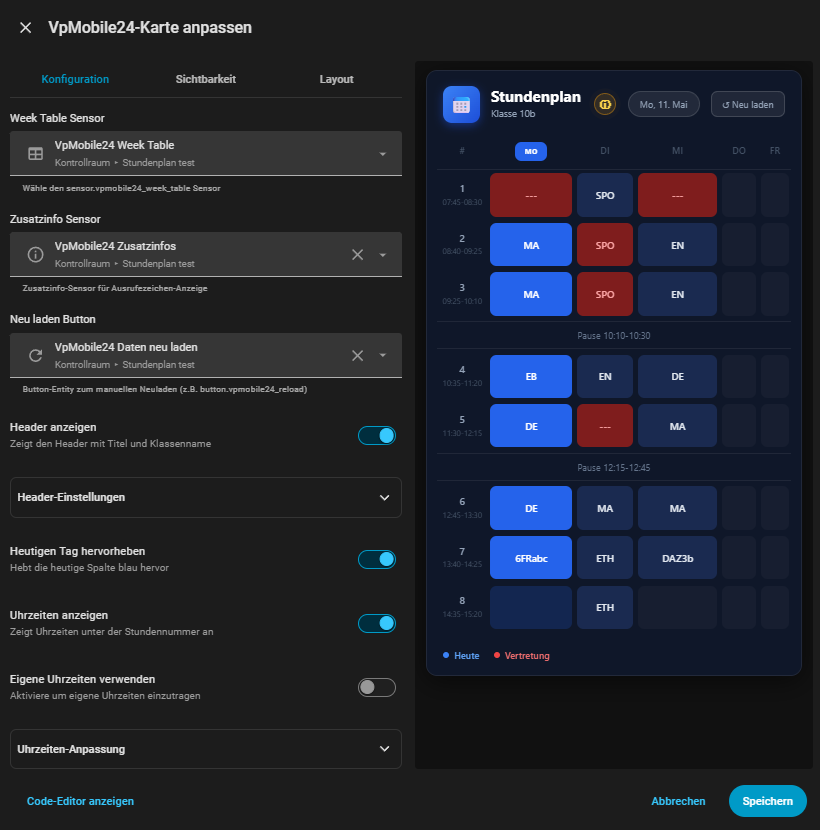
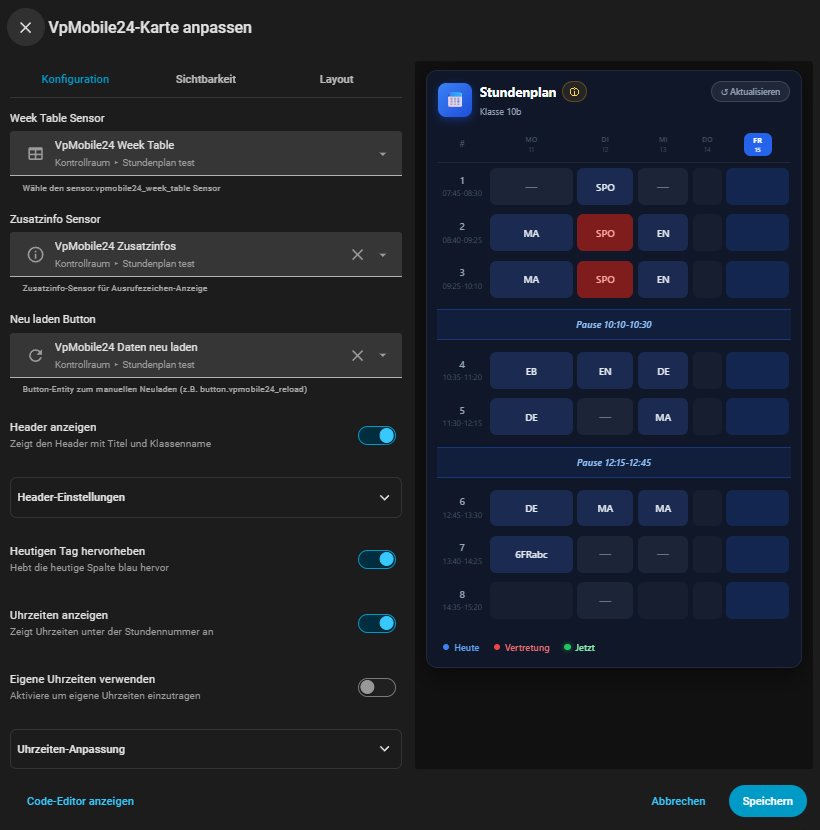
bilder update

Changed region(s): [[0.5183, 0.0904, 0.9756, 0.8133]]

diff --git a/website/index.html b/website/index.html
@@ -347,68 +347,104 @@
         <!-- Feature Showcase SVGs -->
         <div class="feature-showcase">
 
-          <!-- 1: Detail Popup -->
+          <!-- 1: Desktop Card – exact style from screenshot -->
           <div class="showcase-item">
-            <div class="showcase-label"><span class="showcase-dot dot-blue"></span>Klick → Detail-Popup</div>
+            <div class="showcase-label"><span class="showcase-dot dot-blue"></span>Desktop – Wochenansicht</div>
             <div class="showcase-mockup">
-              <svg viewBox="0 0 300 190" xmlns="http://www.w3.org/2000/svg" class="showcase-svg">
-                <rect width="300" height="190" rx="10" fill="#0f1729"/>
-                <rect x="8" y="8" width="284" height="70" rx="6" fill="#162040" opacity="0.6"/>
-                <!-- tiles -->
-                <rect x="60" y="18" width="52" height="22" rx="5" fill="#2563eb" opacity="0.4"/>
-                <text x="86" y="33" text-anchor="middle" fill="#93c5fd" font-size="8" font-family="Inter,sans-serif">MA</text>
-                <rect x="120" y="18" width="52" height="22" rx="5" fill="#2563eb"/>
-                <text x="146" y="33" text-anchor="middle" fill="#fff" font-size="8" font-weight="600" font-family="Inter,sans-serif">DE</text>
-                <rect x="180" y="18" width="52" height="22" rx="5" fill="#1a2a50"/>
-                <text x="206" y="33" text-anchor="middle" fill="#e2e8f0" font-size="8" font-family="Inter,sans-serif">EN</text>
-                <!-- Popup -->
-                <rect x="40" y="82" width="220" height="100" rx="10" fill="#162040" stroke="rgba(255,255,255,0.12)" stroke-width="1"/>
-                <rect x="40" y="82" width="220" height="30" rx="10" fill="#162040"/>
-                <rect x="40" y="100" width="220" height="12" fill="#162040"/>
-                <text x="54" y="98" fill="#94a3b8" font-size="7" font-family="Inter,sans-serif">2. Stunde</text>
-                <text x="100" y="98" fill="#fff" font-size="10" font-weight="800" font-family="Inter,sans-serif">Deutsch</text>
-                <line x1="40" y1="112" x2="260" y2="112" stroke="rgba(255,255,255,0.07)" stroke-width="1"/>
-                <text x="54" y="126" fill="#64748b" font-size="6.5" font-weight="600" font-family="Inter,sans-serif">🕐 2. Stunde</text>
-                <text x="120" y="126" fill="#e2e8f0" font-size="8" font-family="Inter,sans-serif">08:40–09:25</text>
-                <text x="54" y="142" fill="#64748b" font-size="6.5" font-weight="600" font-family="Inter,sans-serif">👤 Lehrer</text>
-                <text x="120" y="142" fill="#e2e8f0" font-size="8" font-family="Inter,sans-serif">Müller</text>
-                <text x="54" y="158" fill="#64748b" font-size="6.5" font-weight="600" font-family="Inter,sans-serif">🚪 Raum</text>
-                <text x="120" y="158" fill="#e2e8f0" font-size="8" font-family="Inter,sans-serif">B102</text>
-                <rect x="186" y="168" width="66" height="16" rx="6" fill="#2563eb"/>
-                <text x="219" y="179" text-anchor="middle" fill="#fff" font-size="7.5" font-weight="700" font-family="Inter,sans-serif">Schließen</text>
+              <svg viewBox="0 0 420 340" xmlns="http://www.w3.org/2000/svg" class="showcase-svg">
+                <rect width="420" height="340" rx="12" fill="#0f1729" stroke="rgba(255,255,255,0.08)" stroke-width="1"/>
+                <!-- Header -->
+                <rect x="14" y="14" width="34" height="34" rx="8" fill="url(#sg1)"/>
+                <text x="31" y="35" text-anchor="middle" font-size="14" font-family="sans-serif">��</text>
+                <text x="56" y="28" fill="#fff" font-size="11" font-weight="700" font-family="Inter,sans-serif">Stundenplan</text>
+                <text x="56" y="40" fill="#94a3b8" font-size="8" font-family="Inter,sans-serif">Klasse 10b</text>
+                <!-- ⓘ -->
+                <circle cx="168" cy="31" r="9" fill="rgba(245,158,11,0.15)" stroke="rgba(245,158,11,0.4)" stroke-width="1.2"/>
+                <text x="168" y="35" text-anchor="middle" fill="#fcd34d" font-size="9" font-family="sans-serif">ⓘ</text>
+                <!-- Aktualisieren -->
+                <rect x="310" y="20" width="96" height="22" rx="11" fill="rgba(255,255,255,0.07)" stroke="rgba(255,255,255,0.13)" stroke-width="1"/>
+                <text x="358" y="34" text-anchor="middle" fill="#94a3b8" font-size="8" font-family="Inter,sans-serif">↺ Aktualisieren</text>
+                <!-- Column headers with date -->
+                <rect x="0" y="56" width="420" height="22" fill="rgba(0,0,0,0.2)"/>
+                <text x="36" y="70" fill="#475569" font-size="7" font-weight="600" font-family="Inter,sans-serif">#</text>
+                <text x="90" y="67" text-anchor="middle" fill="#475569" font-size="7" font-weight="600" font-family="Inter,sans-serif">MO</text>
+                <text x="90" y="76" text-anchor="middle" fill="#334155" font-size="6.5" font-family="Inter,sans-serif">11</text>
+                <text x="162" y="67" text-anchor="middle" fill="#475569" font-size="7" font-weight="600" font-family="Inter,sans-serif">DI</text>
+                <text x="162" y="76" text-anchor="middle" fill="#334155" font-size="6.5" font-family="Inter,sans-serif">12</text>
+                <text x="234" y="67" text-anchor="middle" fill="#475569" font-size="7" font-weight="600" font-family="Inter,sans-serif">MI</text>
+                <text x="234" y="76" text-anchor="middle" fill="#334155" font-size="6.5" font-family="Inter,sans-serif">13</text>
+                <text x="306" y="67" text-anchor="middle" fill="#475569" font-size="7" font-weight="600" font-family="Inter,sans-serif">DO</text>
+                <text x="306" y="76" text-anchor="middle" fill="#334155" font-size="6.5" font-family="Inter,sans-serif">14</text>
+                <!-- FR today pill -->
+                <rect x="356" y="58" width="50" height="20" rx="6" fill="#2563eb"/>
+                <text x="381" y="67" text-anchor="middle" fill="#fff" font-size="7" font-weight="700" font-family="Inter,sans-serif">FR</text>
+                <text x="381" y="76" text-anchor="middle" fill="rgba(255,255,255,0.85)" font-size="6.5" font-family="Inter,sans-serif">15</text>
+                <!-- Row 1: ausfall MO, SPO DI, ausfall MI -->
+                <rect x="0" y="78" width="420" height="30" fill="#0f1729"/>
+                <text x="36" y="95" text-anchor="middle" fill="#94a3b8" font-size="7" font-family="Inter,sans-serif">1</text>
+                <text x="36" y="103" text-anchor="middle" fill="#475569" font-size="5.5" font-family="Inter,sans-serif">07:45</text>
+                <rect x="58" y="81" width="62" height="24" rx="6" fill="#1a2a50"/>
+                <text x="89" y="97" text-anchor="middle" fill="#64748b" font-size="10" font-family="Inter,sans-serif">—</text>
+                <rect x="130" y="81" width="62" height="24" rx="6" fill="#1a2a50"/>
+                <text x="161" y="97" text-anchor="middle" fill="#e2e8f0" font-size="8" font-family="Inter,sans-serif">SPO</text>
+                <rect x="202" y="81" width="62" height="24" rx="6" fill="#1a2a50"/>
+                <text x="233" y="97" text-anchor="middle" fill="#64748b" font-size="10" font-family="Inter,sans-serif">—</text>
+                <rect x="274" y="81" width="62" height="24" rx="6" fill="rgba(255,255,255,0.03)"/>
+                <rect x="346" y="81" width="62" height="24" rx="6" fill="rgba(37,99,235,0.15)"/>
+                <!-- Row 2: MA, SPO red, EN -->
+                <rect x="0" y="108" width="420" height="30" fill="rgba(255,255,255,0.01)"/>
+                <text x="36" y="125" text-anchor="middle" fill="#94a3b8" font-size="7" font-family="Inter,sans-serif">2</text>
+                <text x="36" y="133" text-anchor="middle" fill="#475569" font-size="5.5" font-family="Inter,sans-serif">08:40</text>
+                <rect x="58" y="111" width="62" height="24" rx="6" fill="#1a2a50"/>
+                <text x="89" y="127" text-anchor="middle" fill="#e2e8f0" font-size="8" font-family="Inter,sans-serif">MA</text>
+                <rect x="130" y="111" width="62" height="24" rx="6" fill="#7f1d1d"/>
+                <text x="161" y="127" text-anchor="middle" fill="#fca5a5" font-size="8" font-weight="600" font-family="Inter,sans-serif">SPO</text>
+                <rect x="202" y="111" width="62" height="24" rx="6" fill="#1a2a50"/>
+                <text x="233" y="127" text-anchor="middle" fill="#e2e8f0" font-size="8" font-family="Inter,sans-serif">EN</text>
+                <rect x="274" y="111" width="62" height="24" rx="6" fill="rgba(255,255,255,0.03)"/>
+                <rect x="346" y="111" width="62" height="24" rx="6" fill="rgba(37,99,235,0.15)"/>
+                <!-- Row 3 -->
+                <rect x="0" y="138" width="420" height="30" fill="#0f1729"/>
+                <text x="36" y="155" text-anchor="middle" fill="#94a3b8" font-size="7" font-family="Inter,sans-serif">3</text>
+                <text x="36" y="163" text-anchor="middle" fill="#475569" font-size="5.5" font-family="Inter,sans-serif">09:25</text>
+                <rect x="58" y="141" width="62" height="24" rx="6" fill="#1a2a50"/>
+                <text x="89" y="157" text-anchor="middle" fill="#e2e8f0" font-size="8" font-family="Inter,sans-serif">MA</text>
+                <rect x="130" y="141" width="62" height="24" rx="6" fill="#7f1d1d"/>
+                <text x="161" y="157" text-anchor="middle" fill="#fca5a5" font-size="8" font-weight="600" font-family="Inter,sans-serif">SPO</text>
+                <rect x="202" y="141" width="62" height="24" rx="6" fill="#1a2a50"/>
+                <text x="233" y="157" text-anchor="middle" fill="#e2e8f0" font-size="8" font-family="Inter,sans-serif">EN</text>
+                <rect x="274" y="141" width="62" height="24" rx="6" fill="rgba(255,255,255,0.03)"/>
+                <rect x="346" y="141" width="62" height="24" rx="6" fill="rgba(37,99,235,0.15)"/>
+                <!-- Pause blue -->
+                <rect x="0" y="168" width="420" height="20" fill="rgba(37,99,235,0.1)"/>
+                <line x1="0" y1="168" x2="420" y2="168" stroke="rgba(37,99,235,0.4)" stroke-width="2"/>
+                <line x1="0" y1="188" x2="420" y2="188" stroke="rgba(37,99,235,0.4)" stroke-width="2"/>
+                <text x="210" y="181" text-anchor="middle" fill="#93c5fd" font-size="7.5" font-style="italic" font-weight="500" font-family="Inter,sans-serif">Pause 10:10-10:30</text>
+                <!-- Row 4 -->
+                <rect x="0" y="188" width="420" height="30" fill="rgba(255,255,255,0.01)"/>
+                <text x="36" y="205" text-anchor="middle" fill="#94a3b8" font-size="7" font-family="Inter,sans-serif">4</text>
+                <text x="36" y="213" text-anchor="middle" fill="#475569" font-size="5.5" font-family="Inter,sans-serif">10:35</text>
+                <rect x="58" y="191" width="62" height="24" rx="6" fill="#1a2a50"/>
+                <text x="89" y="207" text-anchor="middle" fill="#e2e8f0" font-size="8" font-family="Inter,sans-serif">EB</text>
+                <rect x="130" y="191" width="62" height="24" rx="6" fill="#1a2a50"/>
+                <text x="161" y="207" text-anchor="middle" fill="#e2e8f0" font-size="8" font-family="Inter,sans-serif">EN</text>
+                <rect x="202" y="191" width="62" height="24" rx="6" fill="#1a2a50"/>
+                <text x="233" y="207" text-anchor="middle" fill="#e2e8f0" font-size="8" font-family="Inter,sans-serif">DE</text>
+                <rect x="274" y="191" width="62" height="24" rx="6" fill="rgba(255,255,255,0.03)"/>
+                <rect x="346" y="191" width="62" height="24" rx="6" fill="rgba(37,99,235,0.15)"/>
+                <!-- Legend -->
+                <circle cx="14" cy="310" r="4" fill="#3b82f6"/>
+                <text x="22" y="314" fill="#60a5fa" font-size="8" font-weight="600" font-family="Inter,sans-serif">Heute</text>
+                <circle cx="62" cy="310" r="4" fill="#ef4444"/>
+                <text x="70" y="314" fill="#f87171" font-size="8" font-weight="600" font-family="Inter,sans-serif">Vertretung</text>
+                <circle cx="122" cy="310" r="4" fill="#22c55e"/>
+                <text x="130" y="314" fill="#86efac" font-size="8" font-weight="600" font-family="Inter,sans-serif">Jetzt</text>
+                <defs><linearGradient id="sg1" x1="0" y1="0" x2="1" y2="1"><stop offset="0%" stop-color="#3b82f6"/><stop offset="100%" stop-color="#1d4ed8"/></linearGradient></defs>
               </svg>
             </div>
           </div>
 
-          <!-- 2: Ausfall Popup -->
-          <div class="showcase-item">
-            <div class="showcase-label"><span class="showcase-dot" style="background:#ef4444;box-shadow:0 0 8px rgba(239,68,68,.6)"></span>Ausfall → Rotes Glow-Popup</div>
-            <div class="showcase-mockup">
-              <svg viewBox="0 0 300 190" xmlns="http://www.w3.org/2000/svg" class="showcase-svg">
-                <rect width="300" height="190" rx="10" fill="#0f1729"/>
-                <rect width="300" height="190" rx="10" fill="rgba(0,0,0,0.45)"/>
-                <defs>
-                  <filter id="rg2"><feGaussianBlur stdDeviation="6" result="b"/><feMerge><feMergeNode in="b"/><feMergeNode in="SourceGraphic"/></feMerge></filter>
-                </defs>
-                <!-- Red popup -->
-                <rect x="20" y="15" width="260" height="160" rx="12" fill="#7f1d1d" stroke="rgba(239,68,68,0.5)" stroke-width="1.5" filter="url(#rg2)"/>
-                <!-- Title -->
-                <rect x="20" y="15" width="260" height="34" rx="12" fill="rgba(0,0,0,0.25)"/>
-                <rect x="20" y="37" width="260" height="12" fill="rgba(0,0,0,0.25)"/>
-                <text x="36" y="36" fill="#fca5a5" font-size="7.5" font-family="Inter,sans-serif">1. Stunde</text>
-                <text x="82" y="36" fill="#fca5a5" font-size="8" font-family="Inter,sans-serif">—</text>
-                <rect x="96" y="24" width="46" height="18" rx="5" fill="rgba(239,68,68,0.3)" stroke="rgba(239,68,68,0.5)" stroke-width="1"/>
-                <text x="119" y="36" text-anchor="middle" fill="#fca5a5" font-size="8" font-weight="700" font-family="Inter,sans-serif">Ausfall</text>
-                <!-- AUSFALL text -->
-                <text x="150" y="112" text-anchor="middle" fill="#fca5a5" font-size="26" font-weight="900" letter-spacing="3" font-family="Inter,sans-serif">AUSFALL</text>
-                <!-- Schließen -->
-                <rect x="196" y="152" width="66" height="18" rx="7" fill="#2563eb"/>
-                <text x="229" y="164" text-anchor="middle" fill="#fff" font-size="8" font-weight="700" font-family="Inter,sans-serif">Schließen</text>
-              </svg>
-            </div>
-          </div>
-
-          <!-- 3: Green current + blue pause -->
+          <!-- 2: Green current + blue pause -->
           <div class="showcase-item">
             <div class="showcase-label"><span class="showcase-dot" style="background:#22c55e;box-shadow:0 0 8px rgba(34,197,94,.6)"></span>Aktuelle Stunde grün + Pause hervorgehoben</div>
             <div class="showcase-mockup">
@@ -463,6 +499,120 @@
               </svg>
             </div>
           </div>
+
+          <!-- 3: Ausfall Popup -->
+          <div class="showcase-item">
+            <div class="showcase-label"><span class="showcase-dot" style="background:#ef4444;box-shadow:0 0 8px rgba(239,68,68,.6)"></span>Ausfall Popup</div>
+            <div class="showcase-mockup">
+              <svg viewBox="0 0 340 220" xmlns="http://www.w3.org/2000/svg" class="showcase-svg">
+                <rect width="340" height="220" rx="10" fill="#0f1729"/>
+                <rect width="340" height="220" rx="10" fill="rgba(0,0,0,0.5)"/>
+                <defs>
+                  <filter id="rglow"><feGaussianBlur stdDeviation="8" result="b"/><feMerge><feMergeNode in="b"/><feMergeNode in="SourceGraphic"/></feMerge></filter>
+                </defs>
+                <!-- Red popup – uniform color, no header bar -->
+                <rect x="20" y="20" width="300" height="180" rx="14" fill="#7f1d1d" stroke="rgba(239,68,68,0.55)" stroke-width="1.5" filter="url(#rglow)"/>
+                <!-- AUSFALL centered -->
+                <text x="170" y="118" text-anchor="middle" fill="#fca5a5" font-size="30" font-weight="900" letter-spacing="4" font-family="Inter,sans-serif">AUSFALL</text>
+                <!-- Schließen bottom right -->
+                <rect x="218" y="172" width="84" height="22" rx="8" fill="#2563eb"/>
+                <text x="260" y="186" text-anchor="middle" fill="#fff" font-size="9" font-weight="700" font-family="Inter,sans-serif">Schließen</text>
+              </svg>
+            </div>
+          </div>
+
+          <!-- 4: Mobile view – exact from screenshot -->
+          <div class="showcase-item">
+            <div class="showcase-label"><span class="showcase-dot dot-blue"></span>Handy-Modus</div>
+            <div class="showcase-mockup">
+              <svg viewBox="0 0 240 460" xmlns="http://www.w3.org/2000/svg" class="showcase-svg">
+                <!-- Phone frame -->
+                <rect width="240" height="460" rx="22" fill="#111"/>
+                <rect x="3" y="3" width="234" height="454" rx="20" fill="#0f1729" stroke="#1e293b" stroke-width="1"/>
+                <rect x="82" y="7" width="76" height="8" rx="4" fill="#111"/>
+                <!-- Header -->
+                <rect x="10" y="18" width="220" height="36" rx="8" fill="#162040" opacity="0.7"/>
+                <rect x="18" y="24" width="24" height="24" rx="6" fill="url(#sg2)"/>
+                <text x="30" y="39" text-anchor="middle" font-size="11" font-family="sans-serif">📅</text>
+                <text x="50" y="33" fill="#fff" font-size="9" font-weight="700" font-family="Inter,sans-serif">Stundenplan</text>
+                <text x="50" y="43" fill="#94a3b8" font-size="6.5" font-family="Inter,sans-serif">Klasse 10b</text>
+                <circle cx="148" cy="36" r="8" fill="rgba(245,158,11,0.15)" stroke="rgba(245,158,11,0.4)" stroke-width="1"/>
+                <text x="148" y="40" text-anchor="middle" fill="#fcd34d" font-size="8" font-family="sans-serif">ⓘ</text>
+                <rect x="162" y="26" width="60" height="20" rx="10" fill="rgba(255,255,255,0.07)" stroke="rgba(255,255,255,0.12)" stroke-width="1"/>
+                <text x="192" y="39" text-anchor="middle" fill="#94a3b8" font-size="6.5" font-family="Inter,sans-serif">↺ Aktualisieren</text>
+                <!-- Day tabs with date -->
+                <rect x="10" y="60" width="220" height="28" rx="0" fill="#0f1729"/>
+                <rect x="10" y="60" width="40" height="28" rx="6" fill="rgba(255,255,255,0.05)"/>
+                <text x="30" y="72" text-anchor="middle" fill="#64748b" font-size="7" font-weight="700" font-family="Inter,sans-serif">MO</text>
+                <text x="30" y="82" text-anchor="middle" fill="#475569" font-size="6" font-family="Inter,sans-serif">11</text>
+                <rect x="54" y="60" width="40" height="28" rx="6" fill="rgba(255,255,255,0.05)"/>
+                <text x="74" y="72" text-anchor="middle" fill="#64748b" font-size="7" font-weight="700" font-family="Inter,sans-serif">DI</text>
+                <text x="74" y="82" text-anchor="middle" fill="#475569" font-size="6" font-family="Inter,sans-serif">12</text>
+                <rect x="98" y="60" width="40" height="28" rx="6" fill="rgba(255,255,255,0.05)"/>
+                <text x="118" y="72" text-anchor="middle" fill="#64748b" font-size="7" font-weight="700" font-family="Inter,sans-serif">MI</text>
+                <text x="118" y="82" text-anchor="middle" fill="#475569" font-size="6" font-family="Inter,sans-serif">13</text>
+                <rect x="142" y="60" width="40" height="28" rx="6" fill="rgba(255,255,255,0.05)"/>
+                <text x="162" y="72" text-anchor="middle" fill="#64748b" font-size="7" font-weight="700" font-family="Inter,sans-serif">DO</text>
+                <text x="162" y="82" text-anchor="middle" fill="#475569" font-size="6" font-family="Inter,sans-serif">14</text>
+                <rect x="186" y="60" width="44" height="28" rx="6" fill="#2563eb"/>
+                <text x="208" y="72" text-anchor="middle" fill="#fff" font-size="7" font-weight="700" font-family="Inter,sans-serif">FR</text>
+                <text x="208" y="82" text-anchor="middle" fill="rgba(255,255,255,0.85)" font-size="6" font-family="Inter,sans-serif">15</text>
+                <!-- Rows -->
+                <rect x="10" y="92" width="220" height="26" fill="#0f1729"/>
+                <text x="22" y="107" fill="#94a3b8" font-size="7" font-weight="700" font-family="Inter,sans-serif">1</text>
+                <text x="22" y="115" fill="#475569" font-size="5.5" font-family="Inter,sans-serif">07:45</text>
+                <rect x="46" y="95" width="176" height="20" rx="5" fill="#1a2a50"/>
+                <text x="134" y="109" text-anchor="middle" fill="#64748b" font-size="10" font-family="Inter,sans-serif">—</text>
+                <rect x="10" y="118" width="220" height="26" fill="rgba(255,255,255,0.01)"/>
+                <text x="22" y="133" fill="#94a3b8" font-size="7" font-weight="700" font-family="Inter,sans-serif">2</text>
+                <text x="22" y="141" fill="#475569" font-size="5.5" font-family="Inter,sans-serif">08:40</text>
+                <rect x="46" y="121" width="176" height="20" rx="5" fill="#1a2a50"/>
+                <text x="134" y="135" text-anchor="middle" fill="#64748b" font-size="10" font-family="Inter,sans-serif">—</text>
+                <rect x="10" y="144" width="220" height="26" fill="#0f1729"/>
+                <text x="22" y="159" fill="#94a3b8" font-size="7" font-weight="700" font-family="Inter,sans-serif">3</text>
+                <text x="22" y="167" fill="#475569" font-size="5.5" font-family="Inter,sans-serif">09:25</text>
+                <rect x="46" y="147" width="176" height="20" rx="5" fill="#1a2a50"/>
+                <text x="134" y="161" text-anchor="middle" fill="#64748b" font-size="10" font-family="Inter,sans-serif">—</text>
+                <!-- Pause blue -->
+                <rect x="10" y="170" width="220" height="18" fill="rgba(37,99,235,0.1)"/>
+                <line x1="10" y1="170" x2="230" y2="170" stroke="rgba(37,99,235,0.4)" stroke-width="2"/>
+                <line x1="10" y1="188" x2="230" y2="188" stroke="rgba(37,99,235,0.4)" stroke-width="2"/>
+                <text x="120" y="182" text-anchor="middle" fill="#93c5fd" font-size="7" font-style="italic" font-weight="500" font-family="Inter,sans-serif">Pause 10:10-10:30</text>
+                <rect x="10" y="188" width="220" height="26" fill="rgba(255,255,255,0.01)"/>
+                <text x="22" y="203" fill="#94a3b8" font-size="7" font-weight="700" font-family="Inter,sans-serif">4</text>
+                <text x="22" y="211" fill="#475569" font-size="5.5" font-family="Inter,sans-serif">10:35</text>
+                <rect x="46" y="191" width="176" height="20" rx="5" fill="#1a2a50"/>
+                <text x="134" y="205" text-anchor="middle" fill="#64748b" font-size="10" font-family="Inter,sans-serif">—</text>
+                <rect x="10" y="214" width="220" height="26" fill="#0f1729"/>
+                <text x="22" y="229" fill="#94a3b8" font-size="7" font-weight="700" font-family="Inter,sans-serif">5</text>
+                <text x="22" y="237" fill="#475569" font-size="5.5" font-family="Inter,sans-serif">11:30</text>
+                <rect x="46" y="217" width="176" height="20" rx="5" fill="#1a2a50"/>
+                <text x="134" y="231" text-anchor="middle" fill="#64748b" font-size="10" font-family="Inter,sans-serif">—</text>
+                <!-- Pause 2 -->
+                <rect x="10" y="240" width="220" height="18" fill="rgba(37,99,235,0.1)"/>
+                <line x1="10" y1="240" x2="230" y2="240" stroke="rgba(37,99,235,0.4)" stroke-width="2"/>
+                <line x1="10" y1="258" x2="230" y2="258" stroke="rgba(37,99,235,0.4)" stroke-width="2"/>
+                <text x="120" y="252" text-anchor="middle" fill="#93c5fd" font-size="7" font-style="italic" font-weight="500" font-family="Inter,sans-serif">Pause 12:15-12:45</text>
+                <rect x="10" y="258" width="220" height="26" fill="rgba(255,255,255,0.01)"/>
+                <text x="22" y="273" fill="#94a3b8" font-size="7" font-weight="700" font-family="Inter,sans-serif">6</text>
+                <text x="22" y="281" fill="#475569" font-size="5.5" font-family="Inter,sans-serif">12:45</text>
+                <rect x="46" y="261" width="176" height="20" rx="5" fill="#1a2a50"/>
+                <text x="134" y="275" text-anchor="middle" fill="#64748b" font-size="10" font-family="Inter,sans-serif">—</text>
+                <!-- Legend -->
+                <circle cx="18" cy="418" r="4" fill="#3b82f6"/>
+                <text x="26" y="422" fill="#60a5fa" font-size="8" font-weight="600" font-family="Inter,sans-serif">Heute</text>
+                <circle cx="68" cy="418" r="4" fill="#ef4444"/>
+                <text x="76" y="422" fill="#f87171" font-size="8" font-weight="600" font-family="Inter,sans-serif">Vertretung</text>
+                <circle cx="128" cy="418" r="4" fill="#22c55e"/>
+                <text x="136" y="422" fill="#86efac" font-size="8" font-weight="600" font-family="Inter,sans-serif">Jetzt</text>
+                <defs><linearGradient id="sg2" x1="0" y1="0" x2="1" y2="1"><stop offset="0%" stop-color="#3b82f6"/><stop offset="100%" stop-color="#1d4ed8"/></linearGradient></defs>
+              </svg>
+            </div>
+          </div>
+
+        </div>
+
+          
 
         </div>
       </div>